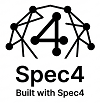
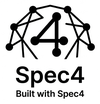
Fixing the badges

diff --git a/README.md b/README.md
@@ -1,7 +1,11 @@
 # Built with Spec4 (BWS4)
 
 ## Overview
-<a href='https://spec4.ai' style='float:right'><img src='BWS4-white-100.png'></a>
+<a href="https://spec4.ai"><picture>
+  <source media="(prefers-color-scheme: dark)" srcset="BWS4-black-100.png">
+  <source media="(prefers-color-scheme: light)" srcset="BWS4-white-100.png">
+  <img src="BWS4-white-100.png" align="right" width="100" alt="Built with Spec4">
+</picture></a>
 Built with Spec4 (BWS4) is a living showcase of common AI application patterns, presented as a collection of small, self-contained example apps behind a single landing page. Each example demonstrates one pattern end-to-end: how it's built, what it depends on, and how it behaves, so that visitors unfamiliar with the underlying technique can understand it by seeing it work rather than by reading about it abstractly.
 
 Eight examples ship today. The first four are listed in order of how much machinery each pattern needs — **embeddings** (turn text into a position and compare positions), **single-call** (one prompt in, one response out), **RAG** (retrieve first, then answer from what you retrieved), and **tool use** (let the model decide what to call). Four more are appended after them, each adding a way of composing calls rather than a new kind of call: **chained calls** (one call's output becomes the next call's input), **planning agent** (one call decomposes a goal into a plan you approve before any step runs, then executes the steps and composes an itinerary), **orchestrated subagents** (a coordinator picks two of four fixed specialists, briefs each differently, runs them at the same time, and merges their independent answers), and **multi-agent collaboration** (a buyer agent negotiates with two rival sellers that hold private constraints neither can see, across a staged trust boundary). Seeing them side by side is the point: each one exists partly to show what the cheaper tier below it cannot do.
